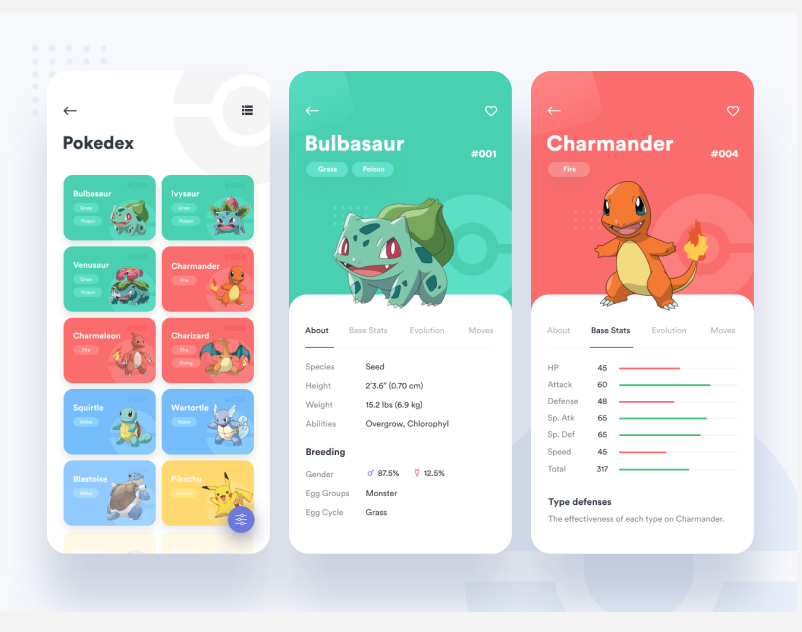
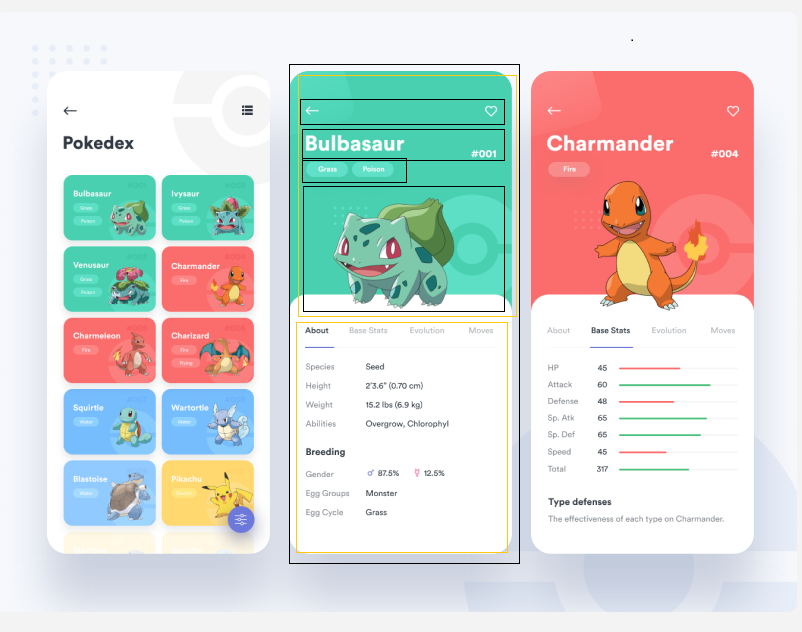
added style

diff --git a/script.js b/script.js
@@ -112,27 +112,38 @@ function loadInfoCard(index) {
     pokedex.classList.add('none');
     header.classList.add('none');
     infoCard.innerHTML = generateInfoCardHTML(index);
+    changeInfoCardBg(index);
 }
 
 function generateInfoCardHTML(i) {
     return /*html*/`
-        <div class="header cardAbove">
-            <div>
-                <img src="img/buttons/back.png" alt="Back" class="back-button">
-                <img src="img/buttons/love.png" alt="Love" class="love-button">
-            </div>
-            <div class="info-card-headline">
-                <div class="i-c-h-undersection">
-                    <h1 class="card-headline">Bulbasaur</h1>
-                    <div>#001</div>
+            <div class="header cardAbove" id="cardAbove${i}">
+                <div>
+                    <img src="img/buttons/back.png" alt="Back" class="back-button invert">
+                    <img src="img/buttons/love.png" alt="Love" class="love-button">
                 </div>
-                <div class="info-card-section">
-                    <p class="info-bar">Grass</p>
-                    <p class="info-bar">Poison</p>
+                <div class="info-card-headline">
+                    <div class="i-c-h-undersection">
+                        <h1 class="card-headline">${pokemonNames[i].toUpperCase()}</h1>
+                        <div>#001</div>
+                    </div>
+                    <div class="info-card-section">
+                        <p class="info-bar">Grass</p>
+                        <p class="info-bar">Poison</p>
+                    </div>
                 </div>
+                <img src="" alt="">
             </div>
-            <img src="" alt="">
-        </div>
-        <div class="cardBelow"></div>
+            <div class="cardBelow"></div>       
     `;
+}
+
+
+function changeInfoCardBg(i) {
+    let element = document.getElementById(`element${i}`);
+    let type = element.innerHTML.trim().toLowerCase();
+    let card = document.getElementById(`cardAbove${i}`);
+    if (cardBg.hasOwnProperty(type)) {
+        card.classList.add(cardBg[type]);
+    } 
 }

diff --git a/style.css b/style.css
@@ -249,6 +249,8 @@ h1 {
 }
 
 .info-card {
+    height: 100vh;
+    width: 100vw;
     font-size: 32px;
 }
 
@@ -258,6 +260,7 @@ h1 {
     right: 25px;
     top: 70px;
     padding-right: 16px;
+    filter: invert(1);
 }
 
 .info-card-headline {
@@ -270,6 +273,8 @@ h1 {
     display: flex;
     flex-direction: row;
     gap: 16px;
+    margin-left: 32px;
+    margin-top: 8px;
 }
 
 .i-c-h-undersection {
@@ -288,16 +293,22 @@ h1 {
 }
 
 .cardAbove {
-    width: 100vw;
-    height: 50vh;
-    background-color: rgba(55, 58, 57, 0.7) !important;
-    z-index: 100;
+    width: 100%;
+    height: 65%;
+    background-color: rgba(55, 58, 57, 0.7);
+    z-index: 1;
 }
 
 .cardBelow {
-    width: 100vw;
-    height: 50vh;
-    z-index: 200;
+    position: fixed;
+    bottom: 0;
+    width: 100%;
+    height: 45%;
+    z-index: 2;
     background-color: white;
     border-radius: 50px;
+}
+
+.invert {
+    filter: invert(1);
 }
